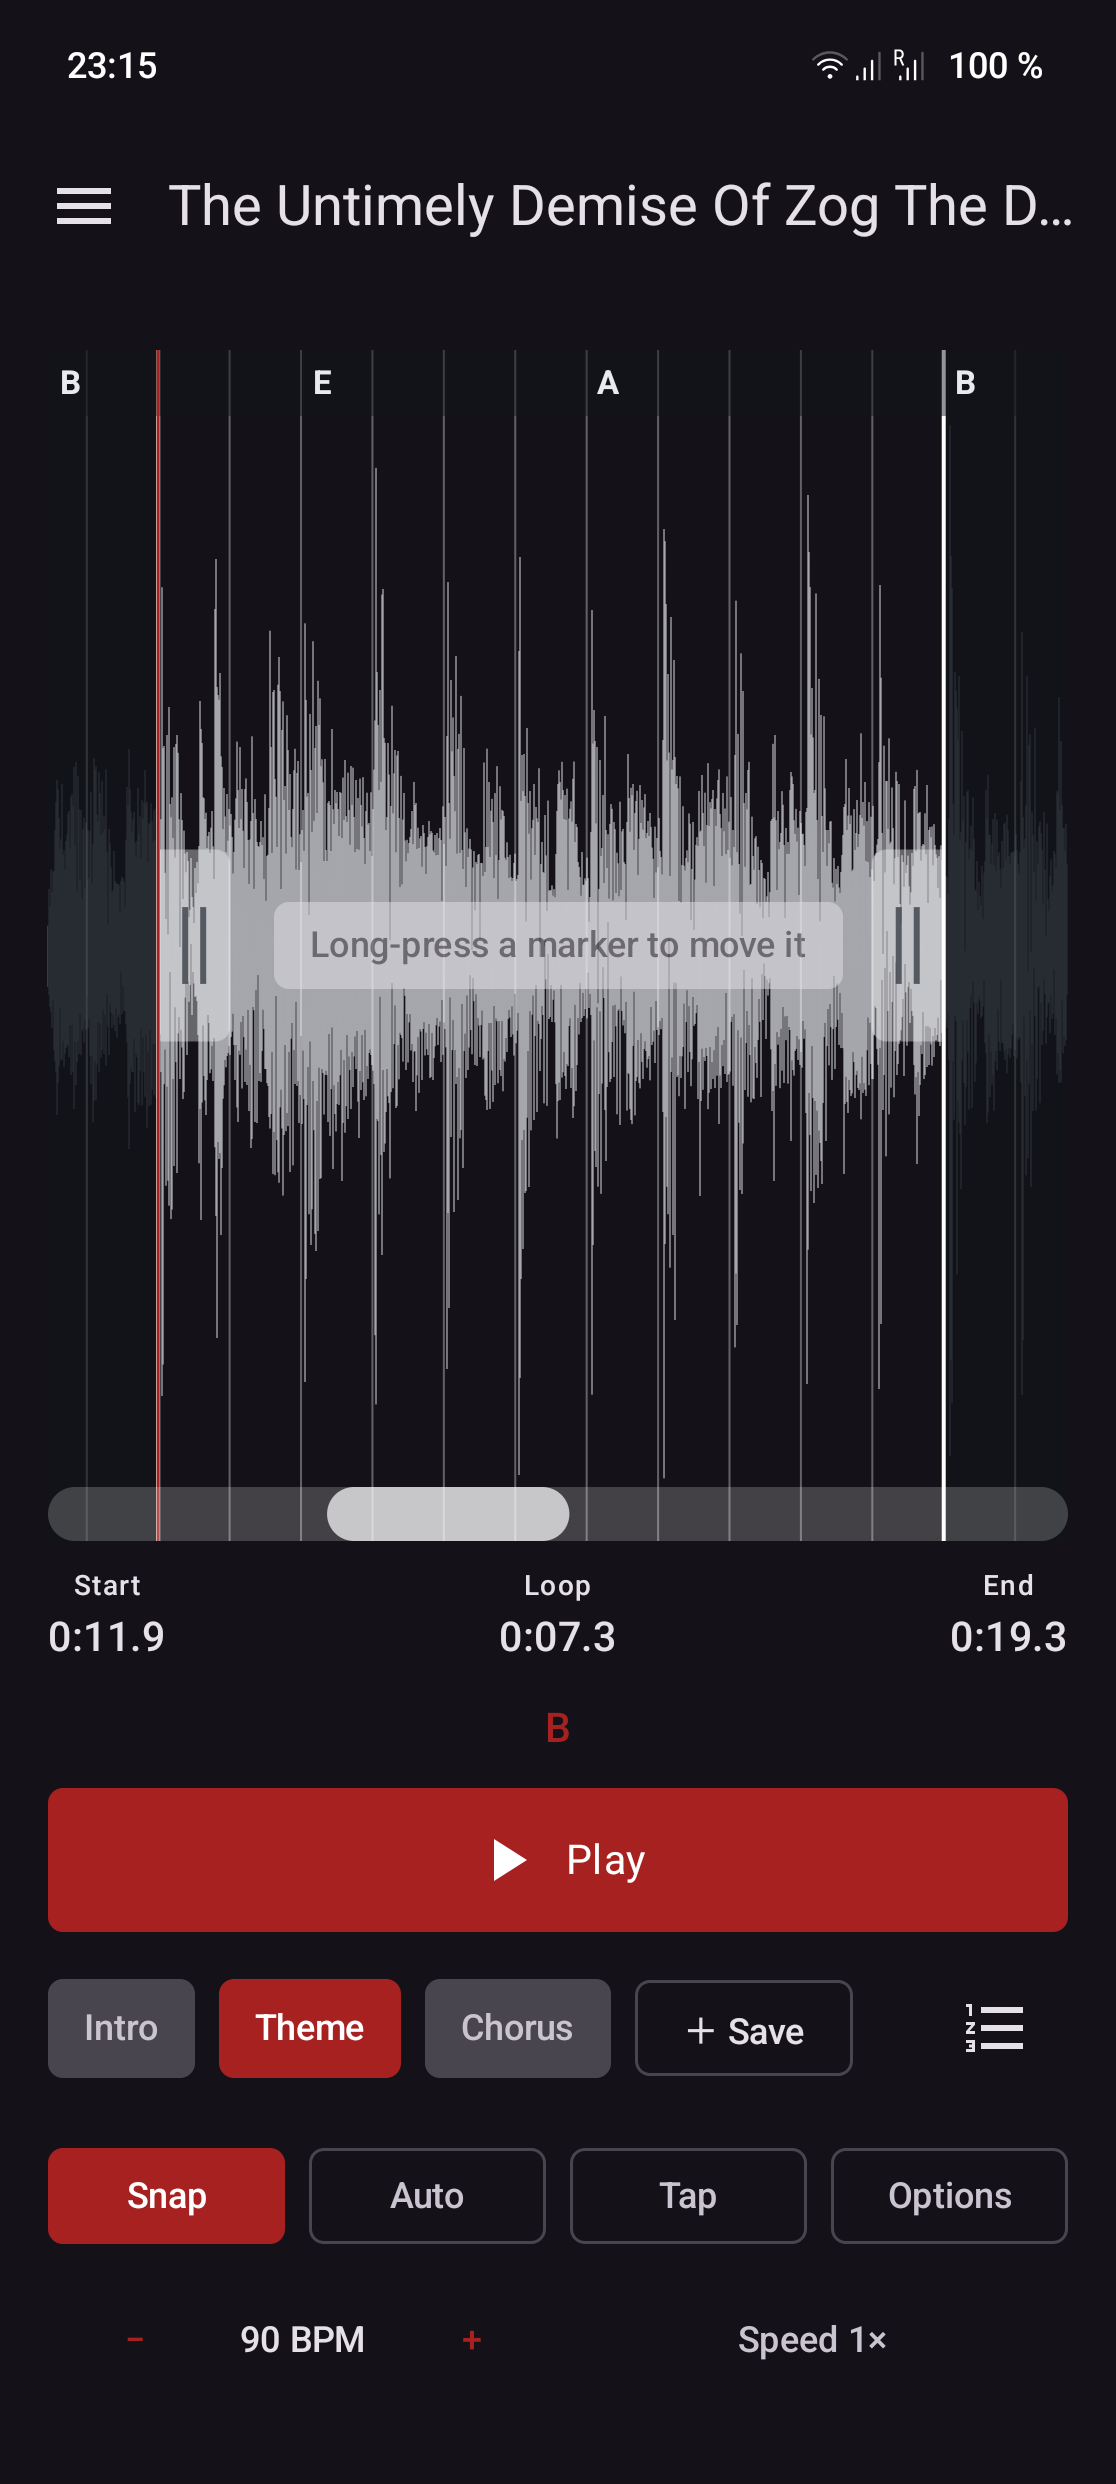
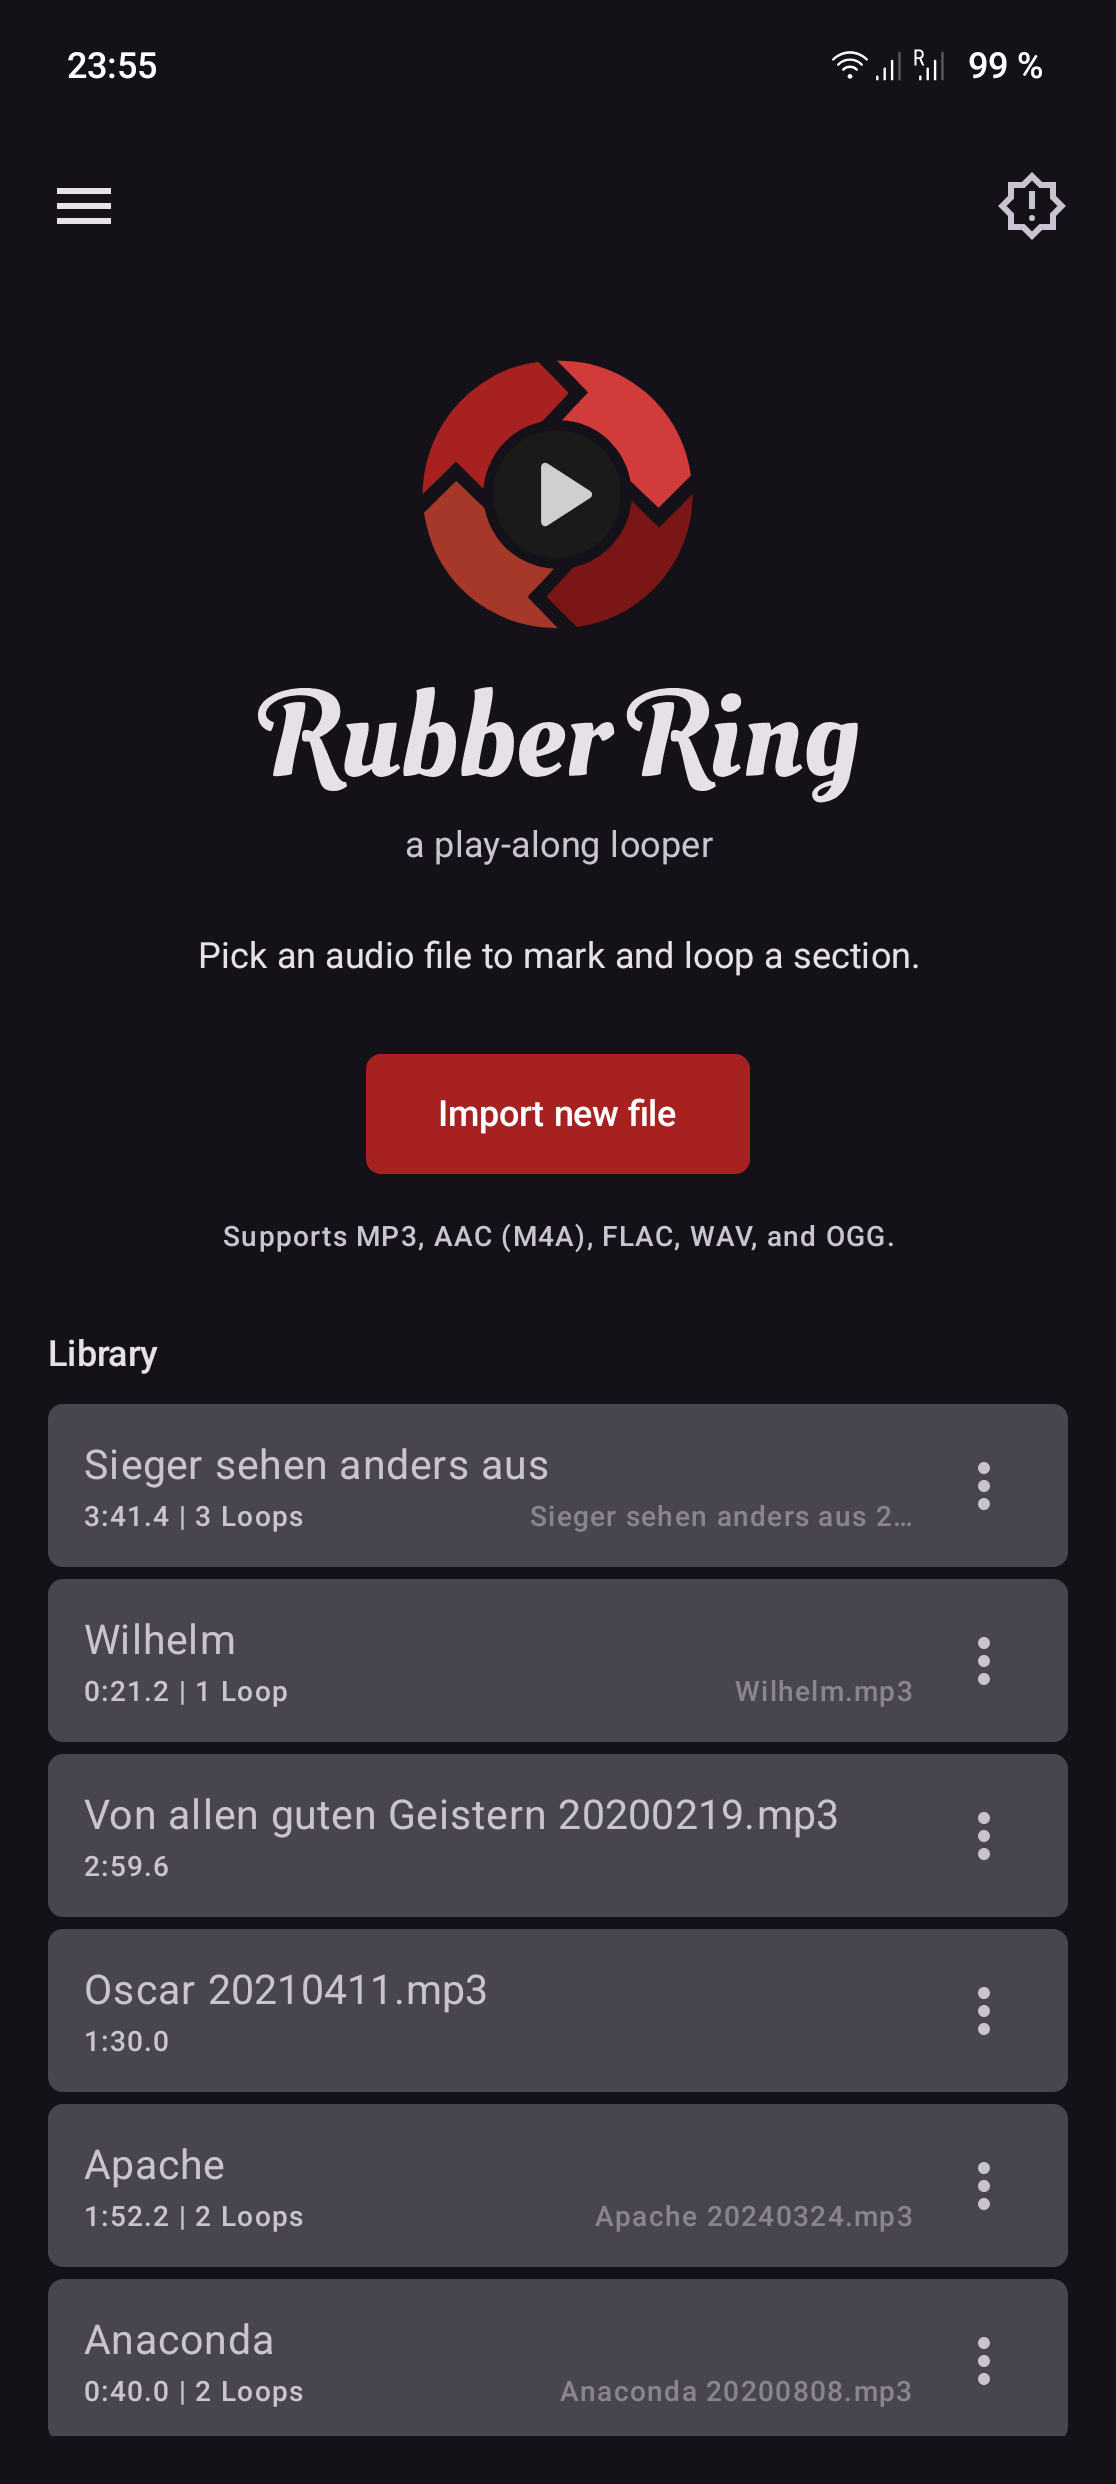
Head the home screen with the Rubber Ring wordmark
Add the wordmark and its claim — "a play-along looper" — above the ring
on the library home. The wordmark is a single-colour vector, the type
already outlined to paths, so it is tinted with the theme and reads in
either mode; the claim beneath it is live text so it stays legible at any
size and is read aloud as words. The corner title steps aside on home,
where the wordmark already names the app, and stays on a loaded track as
its filename. Refresh the README screenshot to the new home screen.

diff --git a/app/src/main/java/de/singular/looper/MainActivity.kt b/app/src/main/java/de/singular/looper/MainActivity.kt
@@ -31,6 +31,7 @@ import androidx.compose.foundation.lazy.LazyColumn
 import androidx.compose.foundation.lazy.items
 import androidx.compose.foundation.rememberScrollState
 import androidx.compose.foundation.text.KeyboardOptions
+import androidx.compose.foundation.layout.aspectRatio
 import androidx.compose.foundation.layout.fillMaxSize
 import androidx.compose.foundation.layout.fillMaxWidth
 import androidx.compose.foundation.layout.height
@@ -393,10 +394,12 @@ fun LooperScreen(viewModel: LooperViewModel = viewModel()) {
                         }
                     },
                     title = {
+                        // On the library home the wordmark banner already names the app, so the
+                        // corner title steps aside there; it stays on a loaded track (its filename).
                         Text(
                             text = when {
                                 selecting -> "${selection.size} selected"
-                                else -> currentFileName(state) ?: "Rubber Ring"
+                                else -> currentFileName(state) ?: ""
                             },
                             maxLines = 1,
                             overflow = TextOverflow.Ellipsis,
@@ -806,6 +809,9 @@ private fun HelpItem(title: String, body: String) {
     }
 }
 
+/** The wordmark's width-to-height, from its 1194×230 artwork. */
+private const val CLAIM_ASPECT = 1194f / 230f
+
 @Composable
 private fun LibraryContent(
     library: List<LibraryTrack>,
@@ -834,7 +840,29 @@ private fun LibraryContent(
             contentDescription = null,
             modifier = Modifier.size(96.dp),
         )
-        Spacer(Modifier.height(12.dp))
+        Spacer(Modifier.height(16.dp))
+        // The "Rubber Ring" wordmark and its claim. The wordmark is a single-colour vector — the
+        // type is already outlined to paths — so it is tinted here rather than carrying its own
+        // colour, and reads in either theme. Sized to a fixed width keeping the artwork's aspect so
+        // it never runs off a narrow phone. The claim below is live text, not more outlined paths,
+        // so it stays legible at any size and is read aloud as words; the wordmark carries no
+        // description of its own to keep the name from being spoken twice.
+        Icon(
+            painter = painterResource(R.drawable.claim),
+            contentDescription = null,
+            tint = MaterialTheme.colorScheme.onSurface,
+            modifier = Modifier
+                .width(200.dp)
+                .aspectRatio(CLAIM_ASPECT),
+        )
+        Spacer(Modifier.height(6.dp))
+        Text(
+            "a play-along looper",
+            style = MaterialTheme.typography.bodyMedium,
+            color = MaterialTheme.colorScheme.onSurfaceVariant,
+            textAlign = TextAlign.Center,
+        )
+        Spacer(Modifier.height(20.dp))
         Text(
             "Pick an audio file to mark and loop a section.",
             style = MaterialTheme.typography.bodyMedium,

diff --git a/README.md b/README.md
@@ -9,7 +9,7 @@ Early-stage release — expect rough edges. Feedback and bug reports welcome via
 
 ## Screenshots
 
-<img src="docs/screenshot.png" alt="RubberRing loop editor with chord lane" width="320" />
+<img src="docs/screenshot.png" alt="RubberRing home screen with wordmark and track library" width="320" />
 
 ## Features
 